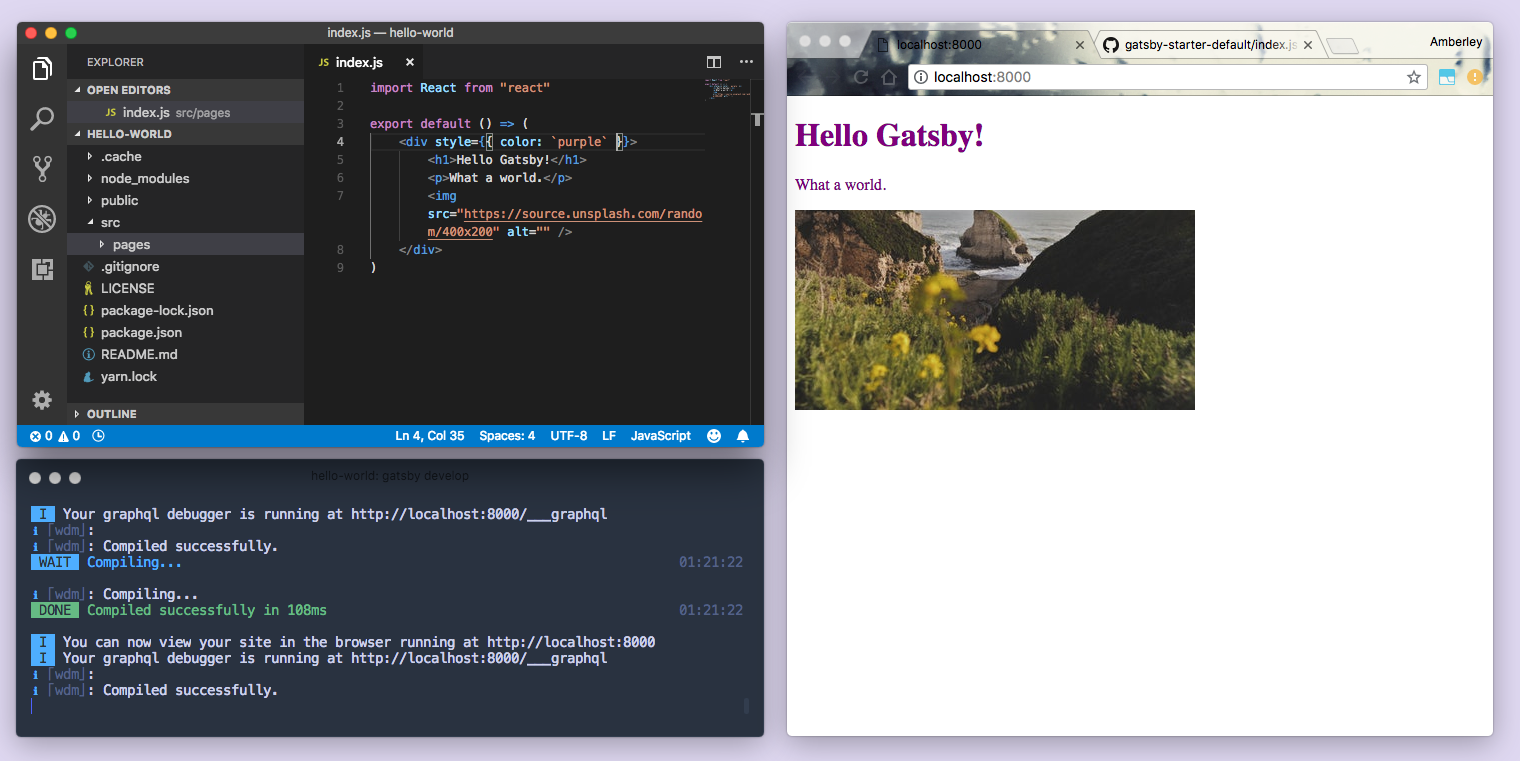
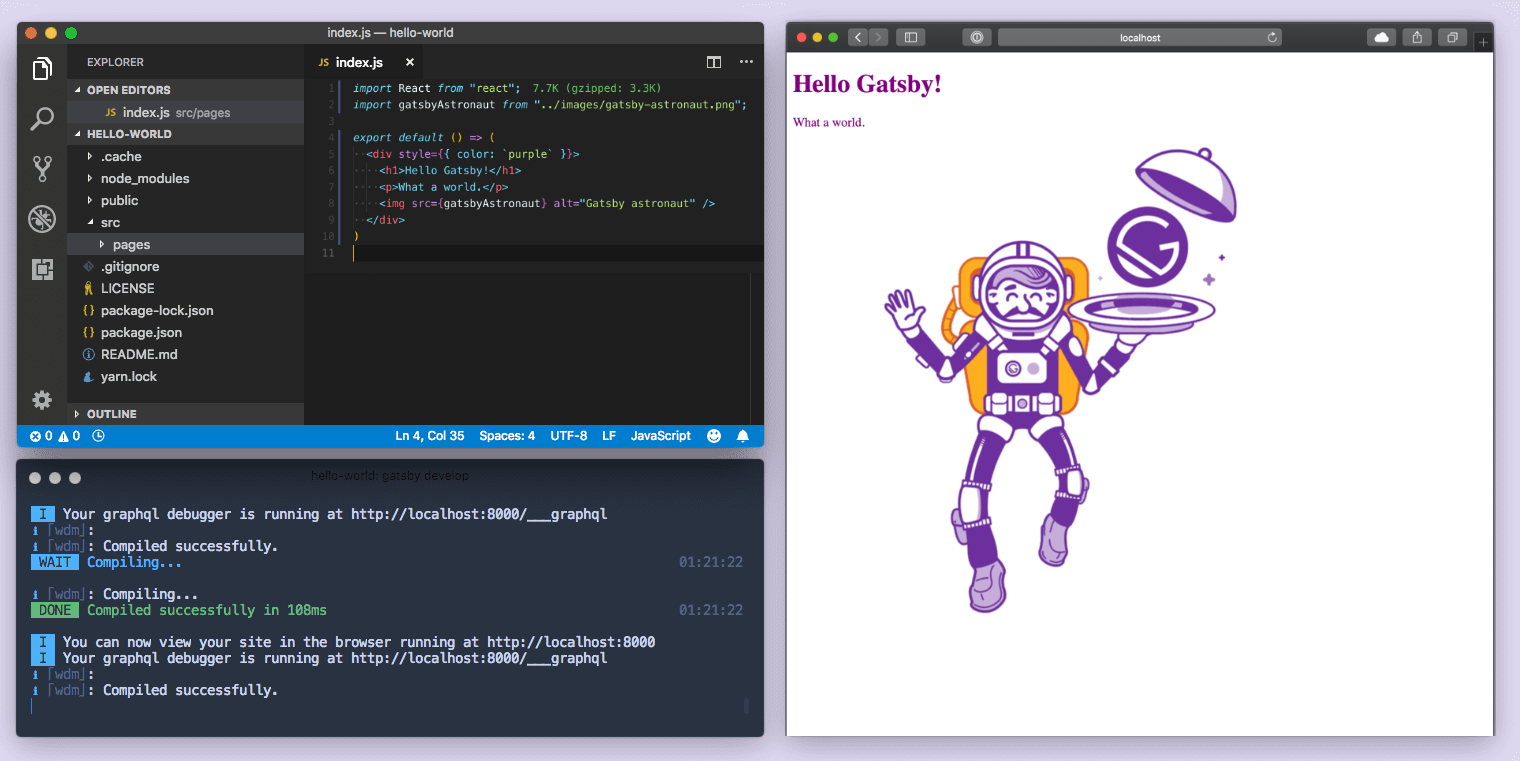
update tutorial one to reference gatsby astronaut image

Changed region(s): [[0.2164, 0.0302, 0.9895, 0.3325], [0.4947, 0.1813, 0.8349, 0.816], [0.0, 0.0302, 0.0309, 0.0604]]

diff --git a/docs/tutorial/part-one/index.md b/docs/tutorial/part-one/index.md
@@ -79,16 +79,17 @@ export default () => (
 
 ![More changes with hot reloading](03-more-hot-reloading.png)
 
-4.  Add an image. (In this case, a random image from Unsplash).
+4.  Add an image. (In this case, the Gatsby astronaut).
 
-```jsx{7}:title=src/pages/index.js
+```jsx{2,8}:title=src/pages/index.js
 import React from "react"
+import gatsbyAstronaut from "../images/gatsby-astronaut.png"
 
 export default () => (
   <div style={{ color: `purple` }}>
     <h1>Hello Gatsby!</h1>
     <p>What a world.</p>
-    <img src="https://source.unsplash.com/random/400x200" alt="" />
+    <img src={gatsbyAstronaut} alt="Gatsby astronaut" />
   </div>
 )
 ```
